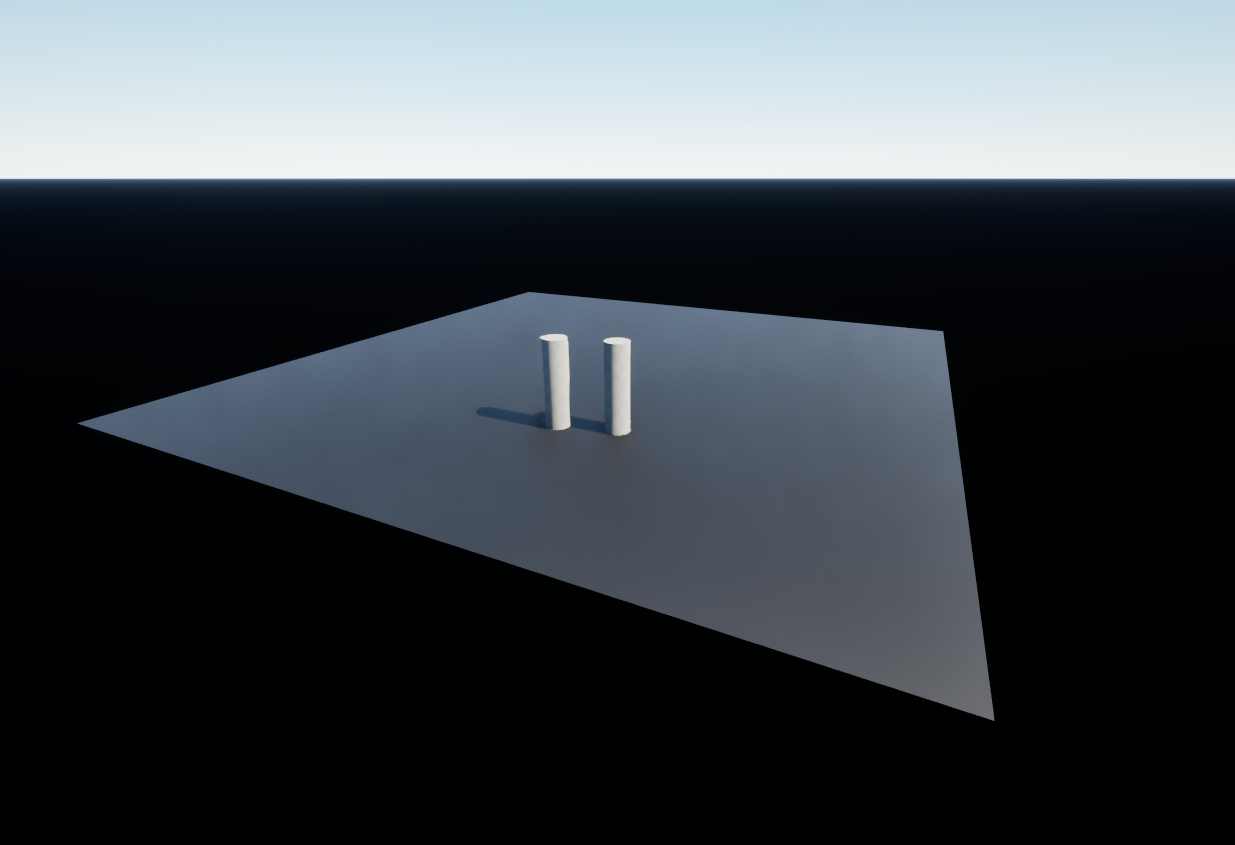
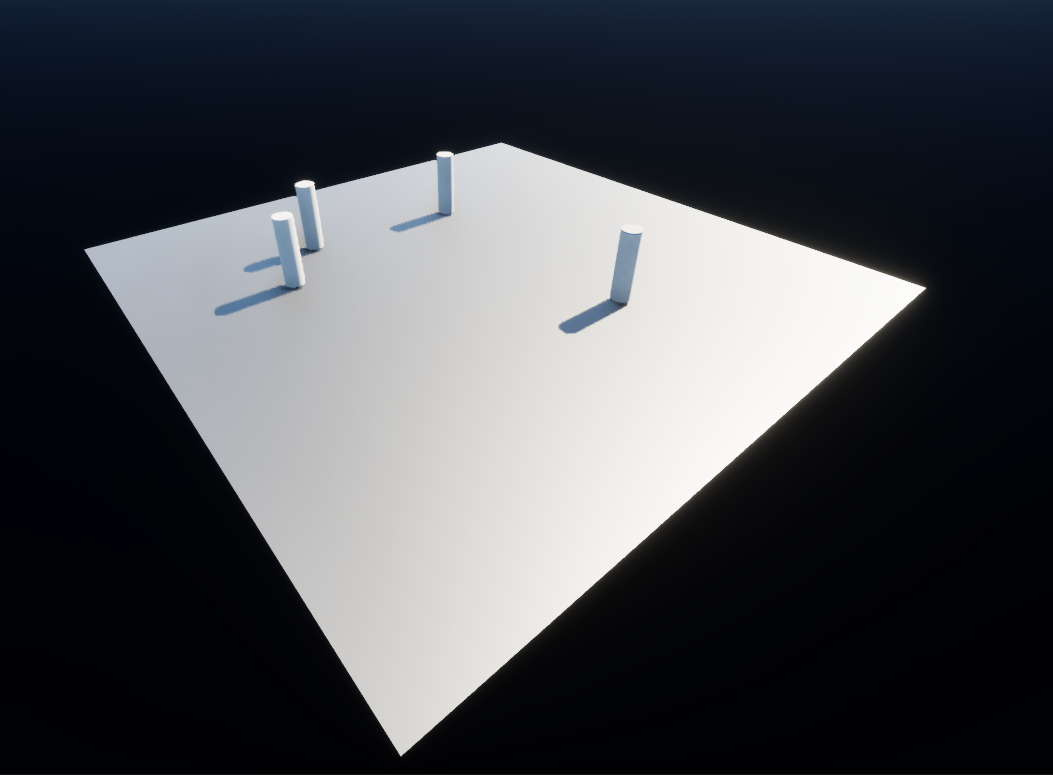
updated entries for eggbeater and battle tactics

diff --git a/src/content/projects/battletactics.md b/src/content/projects/battletactics.md
@@ -1,7 +1,7 @@
 ---
 "title": "narin's battle tactics"
 "year": 2026
-"description": "an autobattler in early development"
+"description": "a character-based autobattler focused on abilities and automated combat"
 "role": "developer"
 "link": "/projects/battletactics"
 "image": "/images/projects/battletactics/thumb.png"

diff --git a/src/content/projects/eggbeater.md b/src/content/projects/eggbeater.md
@@ -4,7 +4,7 @@
 "description": "a rhythm game with integrated rpg mechanics and chart editor"
 "role": "developer"
 "link": "/projects/eggbeater"
-"image": "/images/project-thumb/ggds-thumb.png"
+"image": "/images/projects/eggbeater/thumb.png"
 "tags": 
     - "c#"
     - ".NET"
